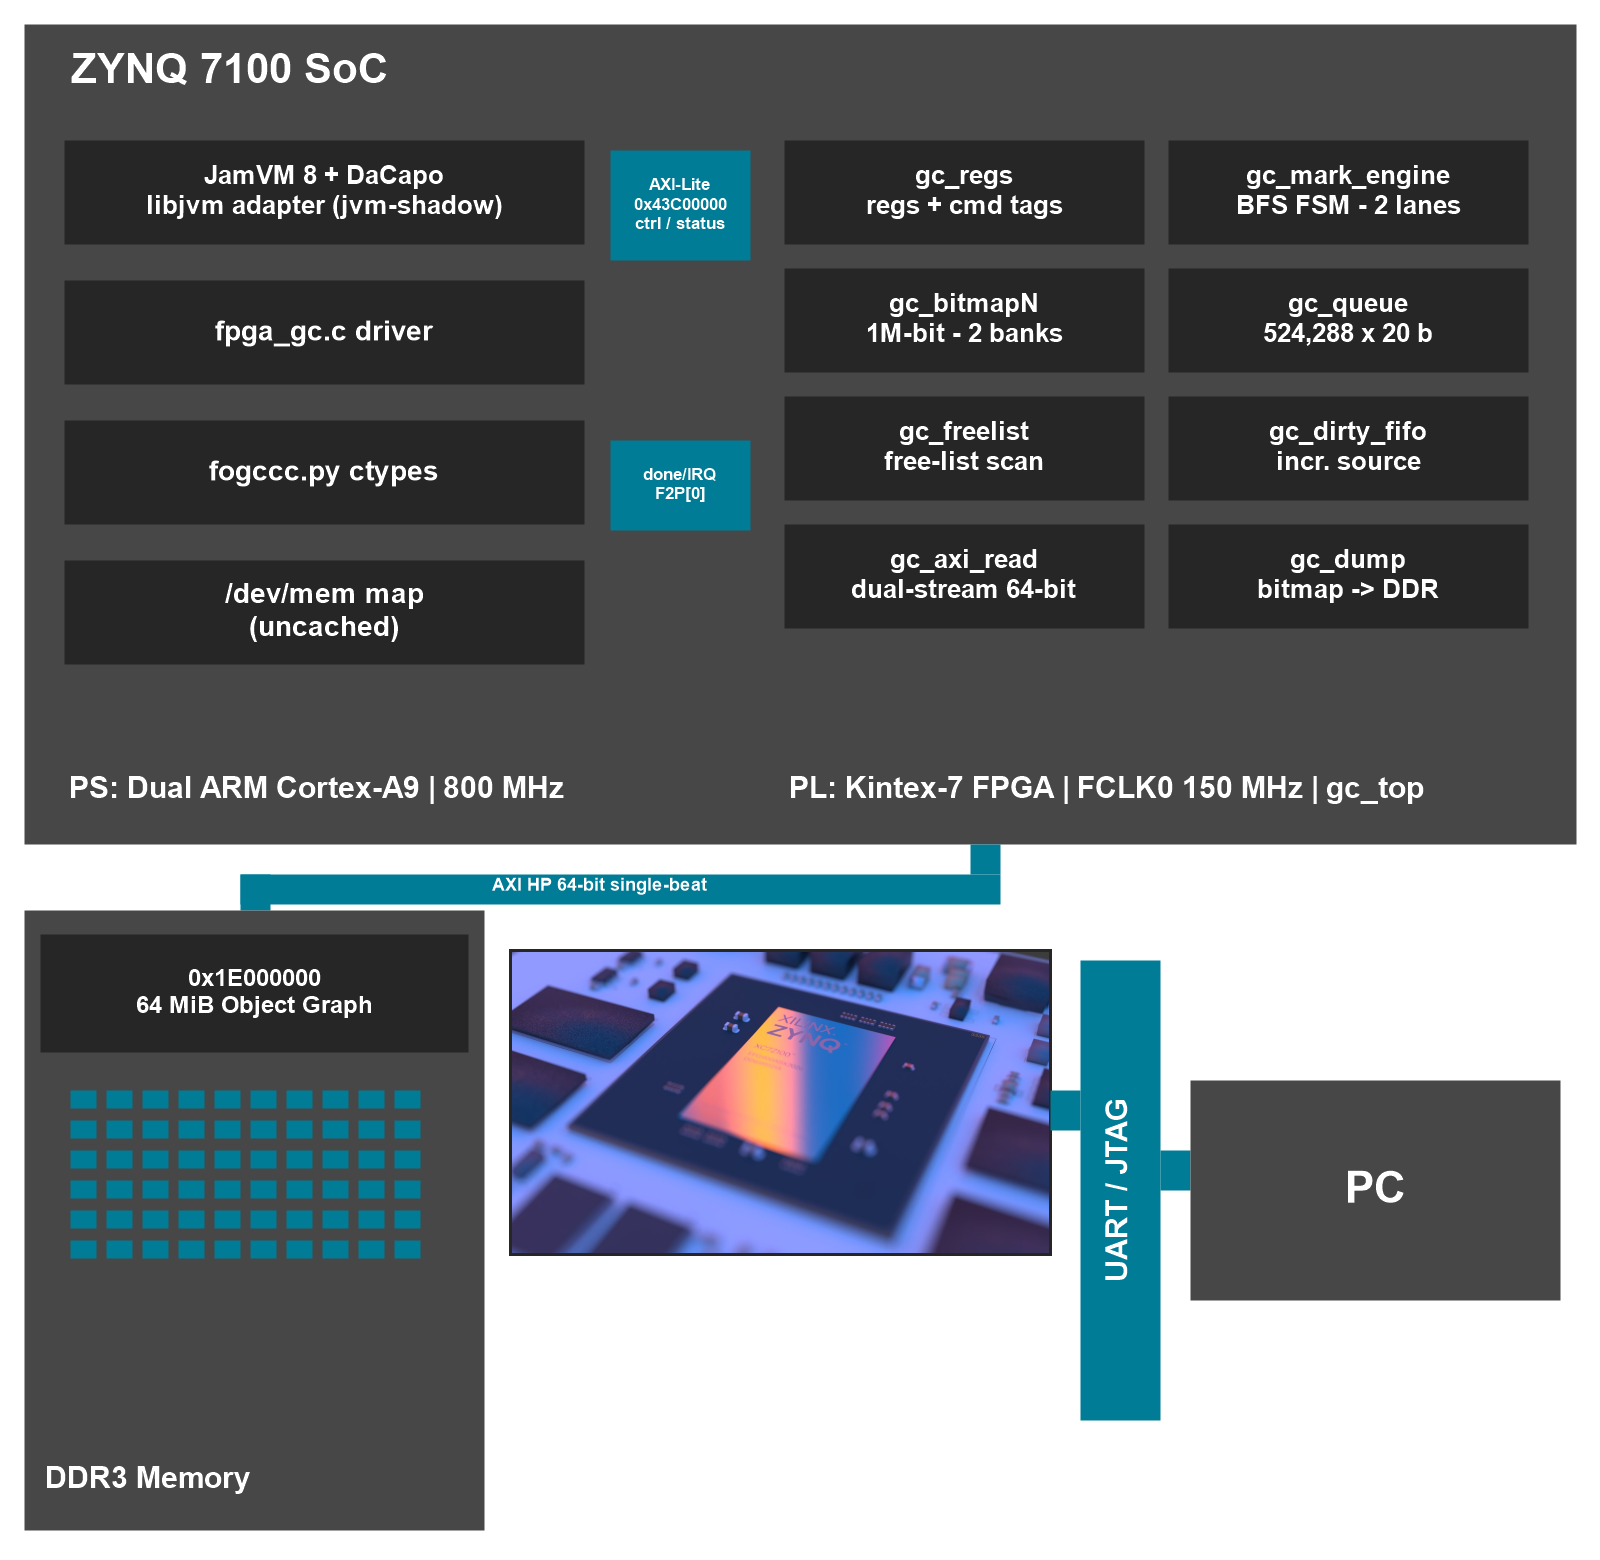
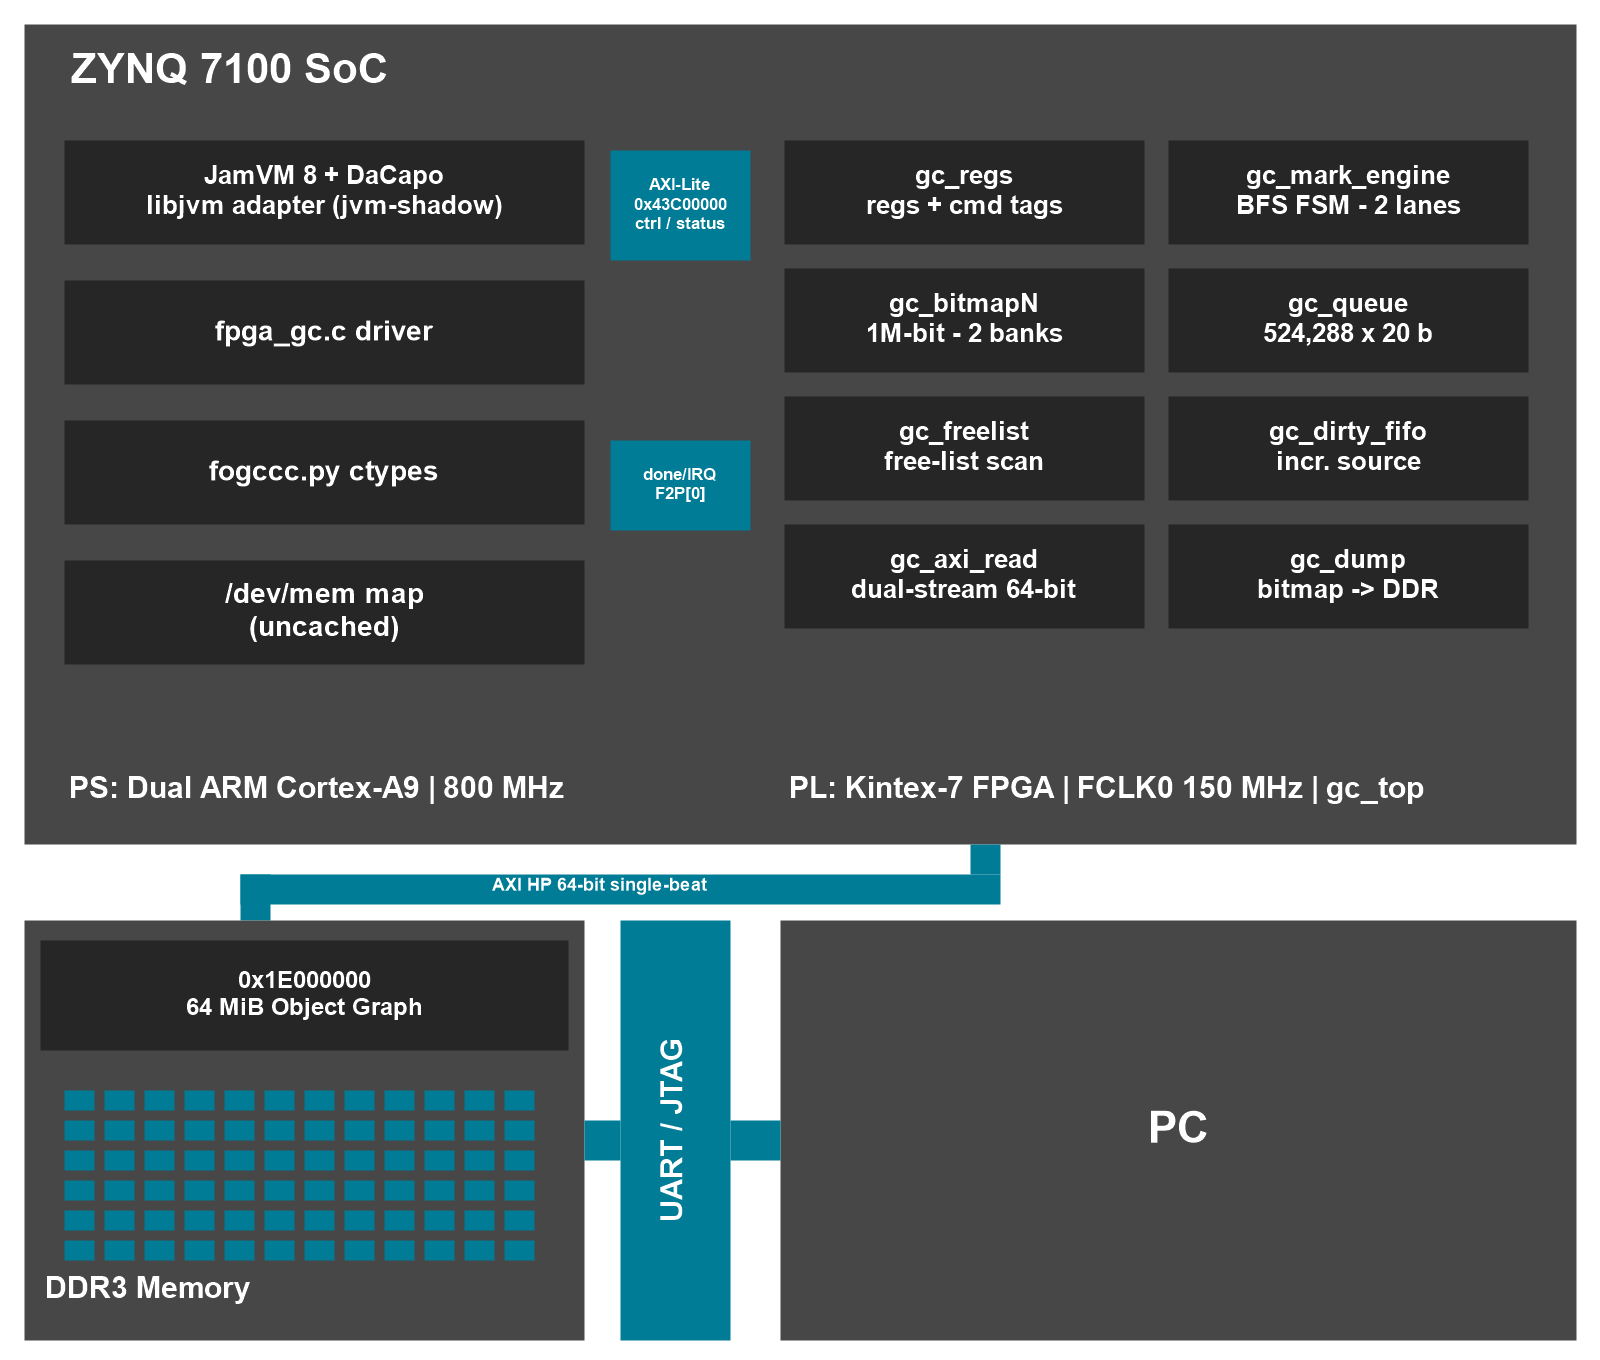
docs(readme): redraw the block diagram and update the 1M probe test
- block.png: same palette and Arial Bold as v4, flat rectangles, orthogonal
  connectors, square corners; the board render is removed and the bottom row
  is filled (DDR3 graph, UART/JTAG, PC)
- tools/diagrams/draw_block.ps1: source of the diagram
- test_read_mark_host.c: the probe now addresses a 20-bit bitmap word
  (id >> 5), so the expected BM_ADDR is 0 for id 3, the out-of-range id is
  1048576, and id 1048575 must map to word 32767

verified: python3 -m unittest discover -s tests -p "test_*.py" -> 62/62 OK
verified: gcc -O2 -Wall -Wextra -Werror ... test_read_mark_host.c -> READ_MARK_RESULT OK
coverage: not measured
unverified: image not rebuilt; the diagram is documentation only

diff --git a/csrc/test_read_mark_host.c b/csrc/test_read_mark_host.c
@@ -39,20 +39,27 @@ int main(void) {
     check("busy engine -> sentinel", fpga_gc_read_mark(&dev, 7), 0xFFFFFFFFUL);
     check("busy engine -> BM_ADDR untouched", regs[REG_BM_ADDR / 4], 0);
 
-    /* 2. idle, bit set -> 1, and the probe address is written */
+    /* 2. idle, bit set -> 1, and the probe word address is written */
     memset(regs, 0, sizeof regs);
     regs[REG_STATUS / 4] = STATUS_IDLE;
     regs[REG_BM_DATA / 4] = (1U << 3);
     check("idle, bit set -> 1", fpga_gc_read_mark(&dev, 3), 1);
-    check("idle -> BM_ADDR = obj id", regs[REG_BM_ADDR / 4], 3);
+    check("idle -> BM_ADDR = id >> 5", regs[REG_BM_ADDR / 4], 3 >> 5);
 
     /* 3. idle, bit clear -> 0 */
     check("idle, bit clear -> 0", fpga_gc_read_mark(&dev, 4), 0);
 
     /* 4. out-of-range id -> 0, probe untouched (no sentinel) */
-    regs[REG_BM_ADDR / 4] = 0xFFFF;
-    check("id 4096 -> 0", fpga_gc_read_mark(&dev, 4096), 0);
-    check("id 4096 -> BM_ADDR untouched", regs[REG_BM_ADDR / 4], 0xFFFF);
+    regs[REG_BM_ADDR / 4] = 0x7FFF;
+    check("id 1048576 -> 0", fpga_gc_read_mark(&dev, 1048576u), 0);
+    check("id 1048576 -> BM_ADDR untouched", regs[REG_BM_ADDR / 4], 0x7FFF);
+
+    /* 4b. last valid id maps to the last bitmap word, bit 31 */
+    memset(regs, 0, sizeof regs);
+    regs[REG_STATUS / 4] = STATUS_IDLE;
+    regs[REG_BM_DATA / 4] = (1U << 31);
+    check("id 1048575 -> 1", fpga_gc_read_mark(&dev, 1048575u), 1);
+    check("id 1048575 -> BM_ADDR = 32767", regs[REG_BM_ADDR / 4], 32767);
 
     /* 5. a different bit position in the same word */
     memset(regs, 0, sizeof regs);
